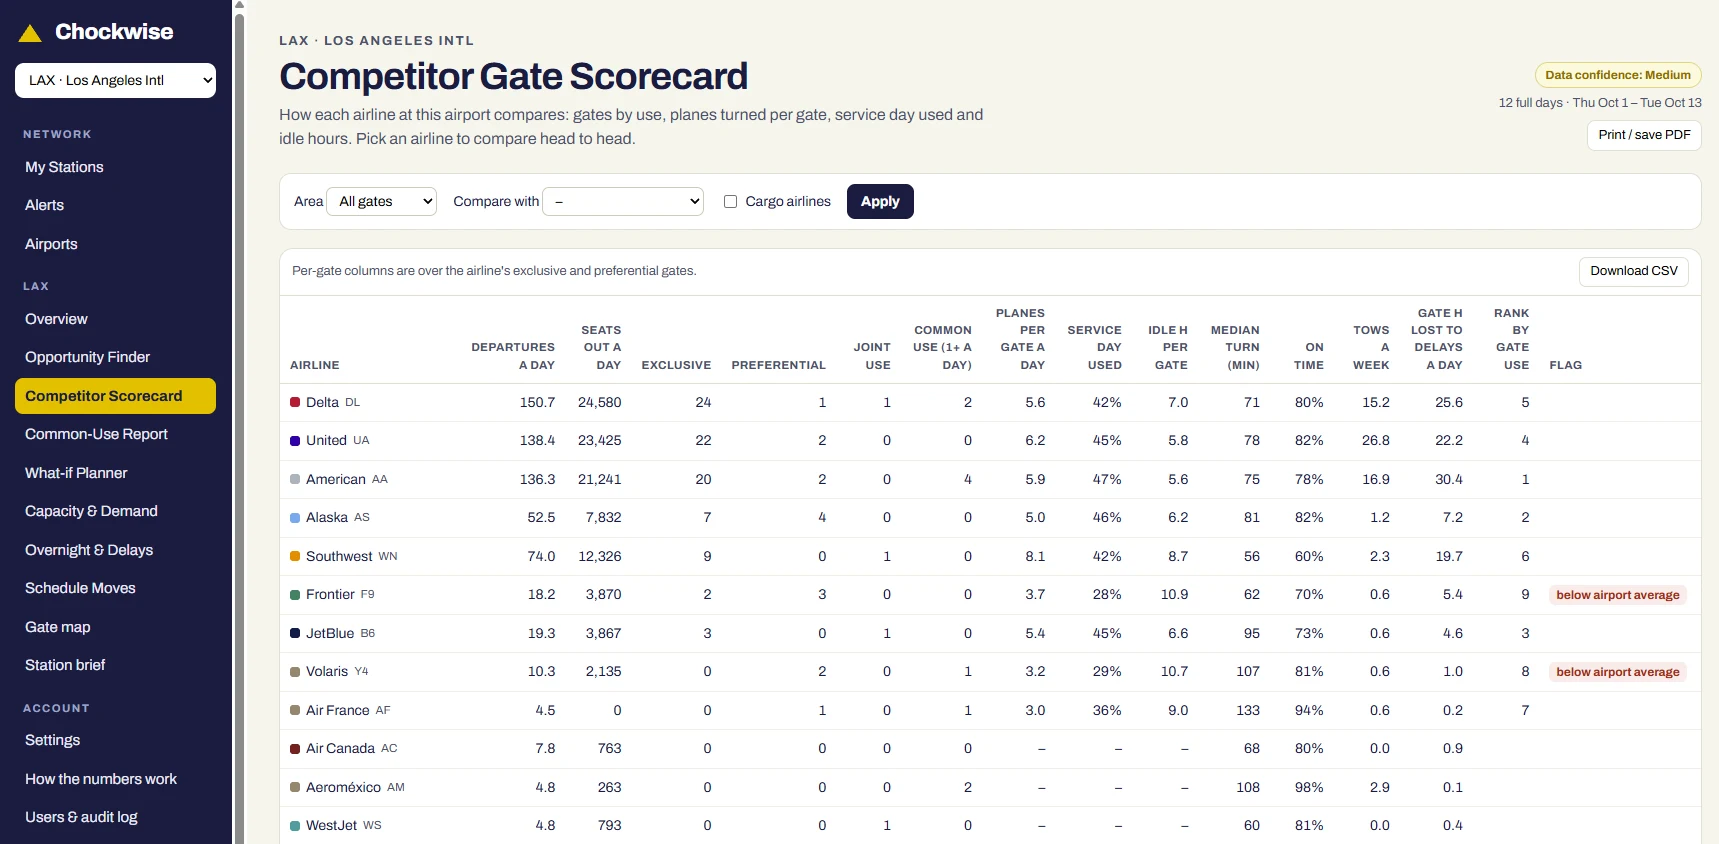
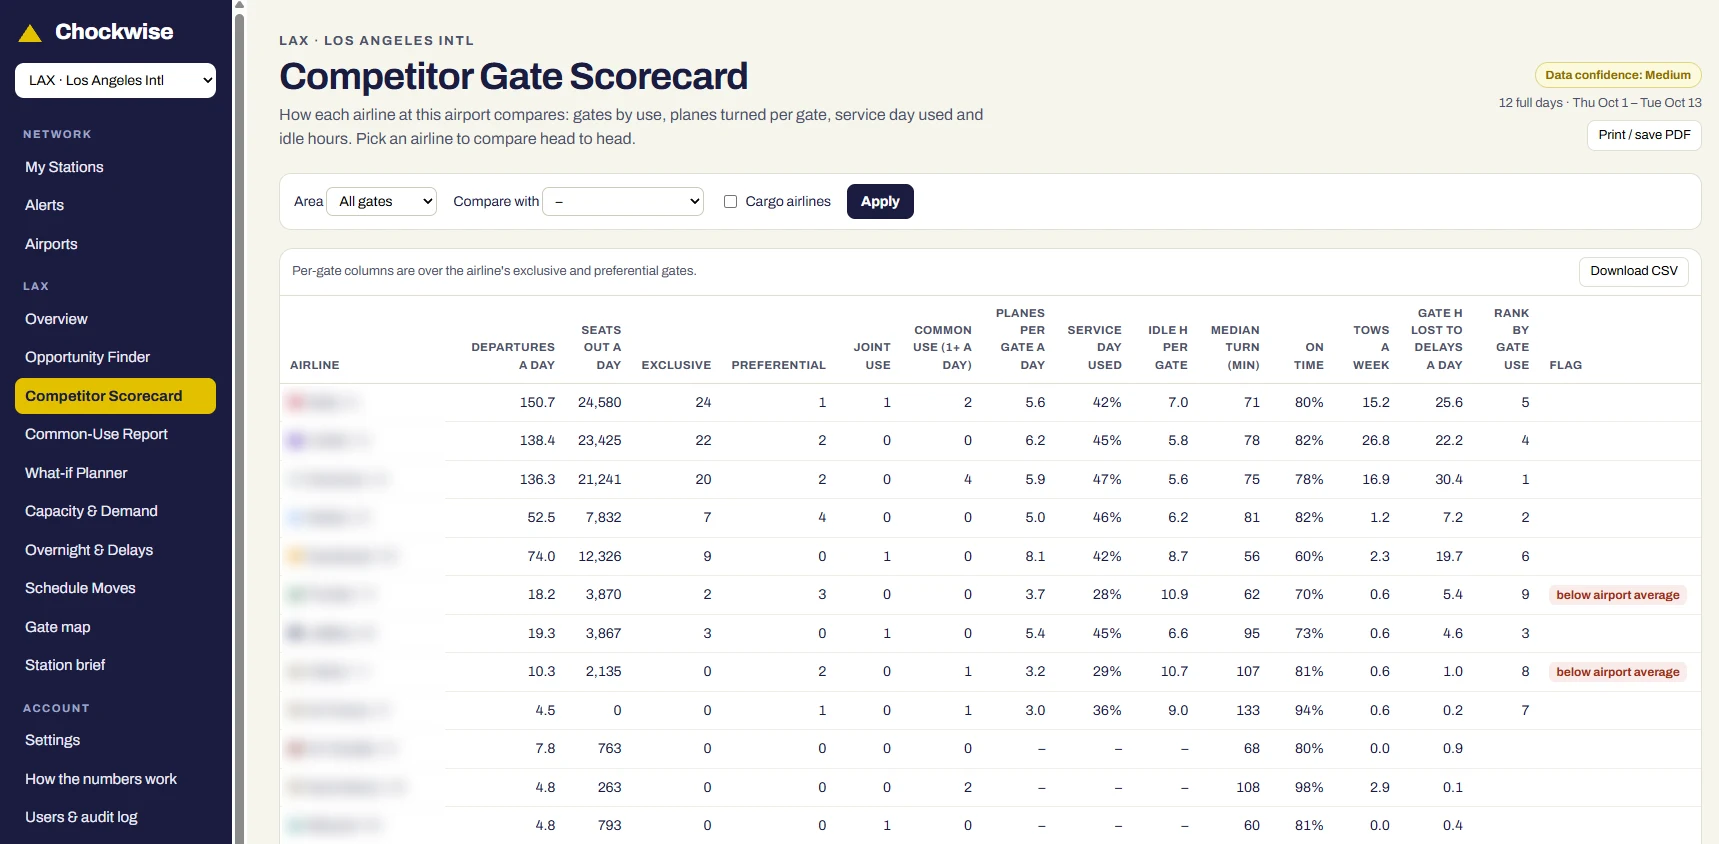
Scorecard screenshot: blur the airline names
Claude-Session: https://claude.ai/code/session_01APDu3tvVdQ11UmxG9ztLiZ

diff --git a/index.html b/index.html
@@ -529,7 +529,7 @@
       </div>
       <figure>
         <a href="images/app-scorecard.webp" aria-label="Open full-size image"><img class="shot" src="images/app-scorecard.webp" width="1719" height="844" loading="lazy"
-             alt="The Chockwise competitor gate scorecard at Los Angeles: Delta, United, American, Alaska, Southwest, Frontier, JetBlue and other airlines with departures and seats a day, exclusive and preferential gates, planes per gate a day, idle hours per gate, median turn, on-time share, tows a week, gate hours lost to delays and rank by gate use."></a>
+             alt="The Chockwise competitor gate scorecard at Los Angeles, airline names blurred: each airline's departures and seats a day, exclusive and preferential gates, planes per gate a day, idle hours per gate, median turn, on-time share, tows a week, gate hours lost to delays and rank by gate use."></a>
         <figcaption>Los Angeles, 12 full days: gates, turns, idle hours and delays for every airline.</figcaption>
       </figure>
     </div>
